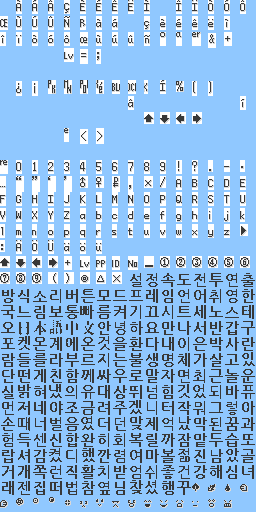
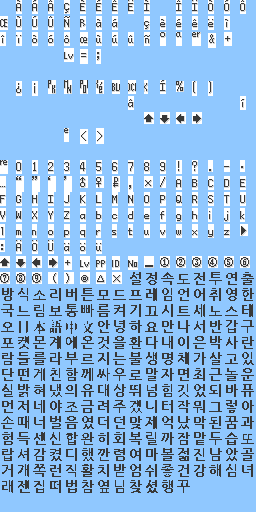
Fix Korean text rendering as blank
The glyphs were baked into one font sheet, but dialogue is drawn with a
different one. gen_korean.py wrote Hangul only into graphics/fonts/
latin_normal.png and patched only sFontNormalLatinGlyphWidths. The dialogue box
picks its font by who is speaking (new_menu_helpers.c: FONT_MALE for a male NPC,
FONT_FEMALE for a female one, FONT_NORMAL only for signs and neutral text) and
Oak's whole opening speech is hardcoded to FONT_MALE (oak_speech.c). Those two
fonts read latin_male.fwlatfont / latin_female.fwlatfont, where every Korean
slot was zero bytes.

A zero glyph is 2bpp value 0, which the printer paints as the background colour,
and the male/female width tables still returned the stock 6 for those indices --
so the cursor advanced and the text came out as correctly-spaced empty boxes.
That is why the options menu and the boot language screen looked right (both
FONT_NORMAL) while every NPC line and all of Oak's speech was blank.

The generator now bakes into latin_normal, latin_male and latin_female, and
patches all four affected width tables (latin_normal backs both FONT_NORMAL and
FONT_NORMAL_COPY_1, which have separate tables). FONT_SMALL is deliberately left
out: it is a half-width 8px font used only for English hint lines, and Hangul is
illegible at 8px.

Two further defects found and fixed while tracing this:

- Glyphs were being clipped. The engine draws only 14 rows (gGlyphInfo.height =
[…]

Changed region(s): [[0.0, 0.5312, 1.0, 1.0]]

diff --git a/src/text.c b/src/text.c
@@ -143,43 +143,38 @@ static const u16 sFontSmallJapaneseGlyphs[] = INCBIN_U16("graphics/fonts/japanes
 static const u16 sFontNormalCopy1LatinGlyphs[] = INCBIN_U16("graphics/fonts/latin_normal.fwlatfont");
 static const u8 sFontNormalCopy1LatinGlyphWidths[] =
 {
-     6,  6,  6,  6,  6,  6,  6,  6,  6,  6,  6,  6,  6,  6,
-     6,  6,  8,  6,  6,  6,  6,  6,  6,  6,  6,  6,  6,  6,
-     6,  6,  6,  6,  6,  6,  6,  6,  6,  8,  6,  6,  6,  6,
-     6,  6,  9,  8,  8,  6,  6,  6,  6,  6, 10,  8,  5,  6,
-     6,  6,  6,  6,  6,  6,  6,  6,  6,  6,  6,  6,  6,  6,
-     6,  6,  6,  6,  6,  6,  6,  6,  6,  6,  6,  6,  6,  8,
-     8,  8,  8,  8,  8,  4,  6,  8,  5,  5,  6,  6,  6,  6,
-     6,  6,  6,  6,  6,  6,  6,  6,  6,  6,  6,  6,  6,  6,
-     6,  6,  6,  6,  6,  6,  6,  6,  6, 12, 12, 12, 12,  6,
-     6,  6,  6,  6,  6,  6,  8,  8,  8,  6,  6,  6,  6,  6,
-     6,  6,  6,  6,  6,  6,  6,  6,  6,  6,  6,  6,  6,  6,
-     6,  6,  6,  6,  6,  6,  8,  6,  6,  6,  6,  6,  6,  6,
-     6,  6,  6,  6,  6,  5,  6,  5,  6,  6,  6,  3,  3,  6,
-     6,  8,  5,  9,  6,  6,  6,  6,  6,  6,  6,  6,  6,  6,
-     6,  6,  6,  6,  6,  6,  6,  6,  6,  6,  6,  6,  6,  6,
-     6,  6,  6,  6,  6,  6,  6,  6,  5,  6,  6,  4,  6,  5,
-     5,  6,  5,  6,  6,  6,  5,  5,  5,  6,  6,  6,  6,  6,
-     6,  8,  5,  6,  6,  6,  6,  6,  6,  6,  6,  6,  6,  6,
-     6,  6,  6,  6, 12, 12, 12, 12,  8, 10, 10, 10, 10, 10,
-    10, 10, 10, 10, 10, 10, 10, 10, 10, 10, 10, 10, 10, 10,
-     6,  6,  6,  6,  6,  6,  6,  6,  6,  6,  6,  6,  6,  6,
-     6,  6,  6,  6,  6,  6,  6,  6,  6,  6,  6,  6,  6,  6,
-     6,  6,  6,  6,  6,  6,  6,  6,  6,  6,  6,  6,  6,  6,
-     6,  6,  6,  6,  6,  6,  6,  6,  6,  6,  6,  6,  6,  6,
-     6,  6,  6,  6,  6,  6,  6,  6,  6,  6,  6,  6,  6,  6,
-     6,  6,  6,  6,  6,  6,  6,  6,  6,  6,  6,  6,  6,  6,
-     6,  6,  6,  6,  6,  6,  6,  6,  6,  6,  6,  6,  6,  6,
-     6,  6,  6,  6,  6,  6,  6,  6,  6,  6,  6,  6,  6,  6,
-     6,  6,  6,  6,  6,  6,  6,  6,  6,  6,  6,  6,  6,  6,
-     6,  6,  6,  6,  6,  6,  6,  6,  6,  6,  6,  6,  6,  6,
-     6,  6,  6,  6,  6,  6,  6,  6,  6,  6,  6,  6,  6,  6,
-     6,  6,  6,  6,  6,  6,  6,  6,  6,  6,  6,  6,  6,  6,
-     6,  6,  6,  6,  6,  6,  6,  6,  6,  6,  6,  6,  6,  6,
-     6,  6,  8,  8,  8,  8,  8,  8,  8,  8,  8,  8,  8,  8,
-     8,  8,  8,  8,  8,  8,  8,  8,  8,  8,  8,  8,  8,  8,
-     8,  8,  8,  8,  8,  8,  8,  8,  8,  8,  8,  8,  8,  8,
-     8,  8,  8,  8,  8,  8,  8,  6
+    6, 6, 6, 6, 6, 6, 6, 6, 6, 6, 6, 6, 6, 6, 6, 6,
+    8, 6, 6, 6, 6, 6, 6, 6, 6, 6, 6, 6, 6, 6, 6, 6,
+    6, 6, 6, 6, 6, 8, 6, 6, 6, 6, 6, 6, 9, 8, 8, 6,
+    6, 6, 6, 6, 10, 8, 5, 6, 6, 6, 6, 6, 6, 6, 6, 6,
+    6, 6, 6, 6, 6, 6, 6, 6, 6, 6, 6, 6, 6, 6, 6, 6,
+    6, 6, 6, 8, 8, 8, 8, 8, 8, 4, 6, 8, 5, 5, 6, 6,
+    6, 6, 6, 6, 6, 6, 6, 6, 6, 6, 6, 6, 6, 6, 6, 6,
+    6, 6, 6, 6, 6, 6, 6, 6, 6, 12, 12, 12, 12, 6, 6, 6,
+    6, 6, 6, 6, 8, 8, 8, 6, 6, 6, 6, 6, 6, 6, 6, 6,
+    6, 6, 6, 6, 6, 6, 6, 6, 6, 6, 6, 6, 6, 6, 6, 6,
+    8, 6, 6, 6, 6, 6, 6, 6, 6, 6, 6, 6, 6, 5, 6, 5,
+    6, 6, 6, 3, 3, 6, 6, 8, 5, 9, 6, 6, 6, 6, 6, 6,
+    6, 6, 6, 6, 6, 6, 6, 6, 6, 6, 6, 6, 6, 6, 6, 6,
+    6, 6, 6, 6, 6, 6, 6, 6, 6, 6, 5, 6, 6, 4, 6, 5,
+    5, 6, 5, 6, 6, 6, 5, 5, 5, 6, 6, 6, 6, 6, 6, 8,
+    5, 6, 6, 6, 6, 6, 6, 6, 6, 6, 6, 6, 6, 6, 6, 6,
+    12, 12, 12, 12, 8, 10, 10, 10, 10, 10, 10, 10, 10, 10, 10, 10,
+    10, 10, 10, 10, 10, 10, 10, 10, 16, 16, 16, 16, 16, 16, 16, 16,
+    16, 16, 16, 16, 16, 16, 16, 16, 16, 16, 16, 16, 16, 16, 16, 16,
+    16, 16, 16, 16, 16, 16, 16, 16, 16, 16, 16, 16, 16, 16, 16, 16,
+    16, 16, 16, 16, 16, 16, 16, 16, 16, 16, 16, 16, 16, 16, 16, 16,
+    16, 16, 16, 16, 16, 16, 16, 16, 16, 16, 16, 16, 16, 16, 16, 16,
+    16, 16, 16, 16, 16, 16, 16, 16, 16, 16, 16, 16, 16, 16, 16, 16,
+    16, 16, 16, 16, 16, 16, 16, 16, 16, 16, 16, 16, 16, 16, 16, 16,
+    16, 16, 16, 16, 16, 16, 16, 16, 16, 16, 16, 16, 16, 16, 16, 16,
+    16, 16, 16, 16, 16, 16, 16, 16, 16, 16, 16, 16, 16, 16, 16, 16,
+    16, 16, 16, 16, 16, 16, 16, 16, 16, 16, 16, 16, 16, 16, 16, 16,
+    16, 16, 16, 16, 16, 16, 16, 16, 16, 16, 16, 16, 16, 16, 16, 16,
+    16, 16, 16, 16, 16, 16, 16, 16, 16, 16, 16, 16, 16, 16, 16, 16,
+    16, 16, 16, 16, 16, 16, 16, 16, 16, 16, 16, 16, 16, 16, 16, 16,
+    16, 16, 16, 16, 16, 16, 16, 16, 16, 16, 16, 16, 8, 8, 8, 8,
+    8, 8, 8, 8, 8, 8, 8, 8, 8, 8, 8, 8, 8, 8, 8, 6,
 };
 static const u16 sFontTallJapaneseGlyphs[] = INCBIN_U16("graphics/fonts/japanese_tall.fwjpnfont");
 
@@ -247,43 +242,38 @@ static const u8 sFontNormalJapaneseGlyphWidths[] =
 static const u16 sFontMaleLatinGlyphs[] = INCBIN_U16("graphics/fonts/latin_male.fwlatfont");
 static const u8 sFontMaleLatinGlyphWidths[] =
 {
-     6,  6,  6,  6,  6,  6,  6,  6,  6,  6,  6,  6,  6,  6,
-     6,  6,  8,  6,  6,  6,  6,  6,  6,  6,  6,  6,  6,  6,
-     6,  6,  6,  6,  6,  6,  6,  6,  6,  8,  6,  6,  6,  6,
-     6,  6,  9,  8,  8,  6,  6,  6,  6,  6, 10,  8,  5,  6,
-     6,  6,  6,  6,  6,  6,  6,  6,  6,  6,  6,  6,  6,  6,
-     6,  6,  6,  6,  6,  6,  6,  6,  6,  6,  6,  6,  6,  8,
-     8,  8,  8,  8,  8,  4,  6,  8,  5,  5,  6,  6,  6,  6,
-     6,  6,  6,  6,  6,  6,  6,  6,  6,  6,  6,  6,  6,  6,
-     6,  6,  6,  6,  6,  6,  6,  6,  6, 12, 12, 12, 12,  6,
-     6,  6,  6,  6,  6,  6,  8,  8,  8,  6,  6,  6,  6,  6,
-     6,  6,  6,  6,  6,  6,  6,  6,  6,  6,  6,  6,  6,  6,
-     6,  6,  6,  6,  6,  6,  8,  6,  6,  6,  6,  6,  6,  6,
-     6,  6,  6,  6,  6,  5,  6,  5,  6,  6,  6,  3,  3,  6,
-     6,  8,  5,  9,  6,  6,  6,  6,  6,  6,  6,  6,  6,  6,
-     6,  6,  6,  6,  6,  6,  6,  6,  6,  6,  6,  6,  6,  6,
-     6,  6,  6,  6,  6,  6,  6,  6,  5,  6,  6,  4,  6,  5,
-     5,  6,  5,  6,  6,  6,  5,  5,  5,  6,  6,  6,  6,  6,
-     6,  8,  5,  6,  6,  6,  6,  6,  6,  6,  6,  6,  6,  6,
-     6,  6,  6,  6, 12, 12, 12, 12,  8, 10, 10, 10, 10, 10,
-    10, 10, 10, 10, 10, 10, 10, 10, 10, 10, 10, 10, 10, 10,
-     6,  6,  6,  6,  6,  6,  6,  6,  6,  6,  6,  6,  6,  6,
-     6,  6,  6,  6,  6,  6,  6,  6,  6,  6,  6,  6,  6,  6,
-     6,  6,  6,  6,  6,  6,  6,  6,  6,  6,  6,  6,  6,  6,
-     6,  6,  6,  6,  6,  6,  6,  6,  6,  6,  6,  6,  6,  6,
-     6,  6,  6,  6,  6,  6,  6,  6,  6,  6,  6,  6,  6,  6,
-     6,  6,  6,  6,  6,  6,  6,  6,  6,  6,  6,  6,  6,  6,
-     6,  6,  6,  6,  6,  6,  6,  6,  6,  6,  6,  6,  6,  6,
-     6,  6,  6,  6,  6,  6,  6,  6,  6,  6,  6,  6,  6,  6,
-     6,  6,  6,  6,  6,  6,  6,  6,  6,  6,  6,  6,  6,  6,
-     6,  6,  6,  6,  6,  6,  6,  6,  6,  6,  6,  6,  6,  6,
-     6,  6,  6,  6,  6,  6,  6,  6,  6,  6,  6,  6,  6,  6,
-     6,  6,  6,  6,  6,  6,  6,  6,  6,  6,  6,  6,  6,  6,
-     6,  6,  6,  6,  6,  6,  6,  6,  6,  6,  6,  6,  6,  6,
-     6,  6,  8,  8,  8,  8,  8,  8,  8,  8,  8,  8,  8,  8,
-     8,  8,  8,  8,  8,  8,  8,  8,  8,  8,  8,  8,  8,  8,
-     8,  8,  8,  8,  8,  8,  8,  8,  8,  8,  8,  8,  8,  8,
-     8,  8,  8,  8,  8,  8,  8,  6
+    6, 6, 6, 6, 6, 6, 6, 6, 6, 6, 6, 6, 6, 6, 6, 6,
+    8, 6, 6, 6, 6, 6, 6, 6, 6, 6, 6, 6, 6, 6, 6, 6,
+    6, 6, 6, 6, 6, 8, 6, 6, 6, 6, 6, 6, 9, 8, 8, 6,
+    6, 6, 6, 6, 10, 8, 5, 6, 6, 6, 6, 6, 6, 6, 6, 6,
+    6, 6, 6, 6, 6, 6, 6, 6, 6, 6, 6, 6, 6, 6, 6, 6,
+    6, 6, 6, 8, 8, 8, 8, 8, 8, 4, 6, 8, 5, 5, 6, 6,
+    6, 6, 6, 6, 6, 6, 6, 6, 6, 6, 6, 6, 6, 6, 6, 6,
+    6, 6, 6, 6, 6, 6, 6, 6, 6, 12, 12, 12, 12, 6, 6, 6,
+    6, 6, 6, 6, 8, 8, 8, 6, 6, 6, 6, 6, 6, 6, 6, 6,
+    6, 6, 6, 6, 6, 6, 6, 6, 6, 6, 6, 6, 6, 6, 6, 6,
+    8, 6, 6, 6, 6, 6, 6, 6, 6, 6, 6, 6, 6, 5, 6, 5,
+    6, 6, 6, 3, 3, 6, 6, 8, 5, 9, 6, 6, 6, 6, 6, 6,
+    6, 6, 6, 6, 6, 6, 6, 6, 6, 6, 6, 6, 6, 6, 6, 6,
+    6, 6, 6, 6, 6, 6, 6, 6, 6, 6, 5, 6, 6, 4, 6, 5,
+    5, 6, 5, 6, 6, 6, 5, 5, 5, 6, 6, 6, 6, 6, 6, 8,
+    5, 6, 6, 6, 6, 6, 6, 6, 6, 6, 6, 6, 6, 6, 6, 6,
+    12, 12, 12, 12, 8, 10, 10, 10, 10, 10, 10, 10, 10, 10, 10, 10,
+    10, 10, 10, 10, 10, 10, 10, 10, 16, 16, 16, 16, 16, 16, 16, 16,
+    16, 16, 16, 16, 16, 16, 16, 16, 16, 16, 16, 16, 16, 16, 16, 16,
+    16, 16, 16, 16, 16, 16, 16, 16, 16, 16, 16, 16, 16, 16, 16, 16,
+    16, 16, 16, 16, 16, 16, 16, 16, 16, 16, 16, 16, 16, 16, 16, 16,
+    16, 16, 16, 16, 16, 16, 16, 16, 16, 16, 16, 16, 16, 16, 16, 16,
+    16, 16, 16, 16, 16, 16, 16, 16, 16, 16, 16, 16, 16, 16, 16, 16,
+    16, 16, 16, 16, 16, 16, 16, 16, 16, 16, 16, 16, 16, 16, 16, 16,
+    16, 16, 16, 16, 16, 16, 16, 16, 16, 16, 16, 16, 16, 16, 16, 16,
+    16, 16, 16, 16, 16, 16, 16, 16, 16, 16, 16, 16, 16, 16, 16, 16,
+    16, 16, 16, 16, 16, 16, 16, 16, 16, 16, 16, 16, 16, 16, 16, 16,
+    16, 16, 16, 16, 16, 16, 16, 16, 16, 16, 16, 16, 16, 16, 16, 16,
+    16, 16, 16, 16, 16, 16, 16, 16, 16, 16, 16, 16, 16, 16, 16, 16,
+    16, 16, 16, 16, 16, 16, 16, 16, 16, 16, 16, 16, 16, 16, 16, 16,
+    16, 16, 16, 16, 16, 16, 16, 16, 16, 16, 16, 16, 8, 8, 8, 8,
+    8, 8, 8, 8, 8, 8, 8, 8, 8, 8, 8, 8, 8, 8, 8, 6,
 };
 static const u16 sFontMaleJapaneseGlyphs[] = INCBIN_U16("graphics/fonts/japanese_male.fwjpnfont");
 static const u8 sFontMaleJapaneseGlyphWidths[] = 
@@ -313,43 +303,38 @@ static const u8 sFontMaleJapaneseGlyphWidths[] =
 static const u16 sFontFemaleLatinGlyphs[] = INCBIN_U16("graphics/fonts/latin_female.fwlatfont");
 static const u8 sFontFemaleLatinGlyphWidths[] =
 {
-     6,  6,  6,  6,  6,  6,  6,  6,  6,  6,  6,  6,  6,  6,
-     6,  6,  8,  6,  6,  6,  6,  6,  6,  6,  6,  6,  6,  6,
-     6,  6,  6,  6,  6,  6,  6,  6,  6,  8,  6,  6,  6,  6,
-     6,  6,  9,  8,  8,  6,  6,  6,  6,  6, 10,  8,  5,  6,
-     6,  6,  6,  6,  6,  6,  6,  6,  6,  6,  6,  6,  6,  6,
-     6,  6,  6,  6,  6,  6,  6,  6,  6,  6,  6,  6,  6,  8,
-     8,  8,  8,  8,  8,  4,  6,  8,  5,  5,  6,  6,  6,  6,
-     6,  6,  6,  6,  6,  6,  6,  6,  6,  6,  6,  6,  6,  6,
-     6,  6,  6,  6,  6,  6,  6,  6,  6, 12, 12, 12, 12,  6,
-     6,  6,  6,  6,  6,  6,  8,  8,  8,  6,  6,  6,  6,  6,
-     6,  6,  6,  6,  6,  6,  6,  6,  6,  6,  6,  6,  6,  6,
-     6,  6,  6,  6,  6,  6,  8,  6,  6,  6,  6,  6,  6,  6,
-     6,  6,  6,  6,  6,  5,  6,  5,  6,  6,  6,  3,  3,  6,
-     6,  8,  5,  9,  6,  6,  6,  6,  6,  6,  6,  6,  6,  6,
-     6,  6,  6,  6,  6,  6,  6,  6,  6,  6,  6,  6,  6,  6,
-     6,  6,  6,  6,  6,  6,  6,  6,  5,  6,  6,  4,  6,  5,
-     5,  6,  5,  6,  6,  6,  5,  5,  5,  6,  6,  6,  6,  6,
-     6,  8,  5,  6,  6,  6,  6,  6,  6,  6,  6,  6,  6,  6,
-     6,  6,  6,  6, 12, 12, 12, 12,  8, 10, 10, 10, 10, 10,
-    10, 10, 10, 10, 10, 10, 10, 10, 10, 10, 10, 10, 10, 10,
-     6,  6,  6,  6,  6,  6,  6,  6,  6,  6,  6,  6,  6,  6,
-     6,  6,  6,  6,  6,  6,  6,  6,  6,  6,  6,  6,  6,  6,
-     6,  6,  6,  6,  6,  6,  6,  6,  6,  6,  6,  6,  6,  6,
-     6,  6,  6,  6,  6,  6,  6,  6,  6,  6,  6,  6,  6,  6,
-     6,  6,  6,  6,  6,  6,  6,  6,  6,  6,  6,  6,  6,  6,
-     6,  6,  6,  6,  6,  6,  6,  6,  6,  6,  6,  6,  6,  6,
-     6,  6,  6,  6,  6,  6,  6,  6,  6,  6,  6,  6,  6,  6,
-     6,  6,  6,  6,  6,  6,  6,  6,  6,  6,  6,  6,  6,  6,
-     6,  6,  6,  6,  6,  6,  6,  6,  6,  6,  6,  6,  6,  6,
-     6,  6,  6,  6,  6,  6,  6,  6,  6,  6,  6,  6,  6,  6,
-     6,  6,  6,  6,  6,  6,  6,  6,  6,  6,  6,  6,  6,  6,
-     6,  6,  6,  6,  6,  6,  6,  6,  6,  6,  6,  6,  6,  6,
-     6,  6,  6,  6,  6,  6,  6,  6,  6,  6,  6,  6,  6,  6,
-     6,  6,  8,  8,  8,  8,  8,  8,  8,  8,  8,  8,  8,  8,
-     8,  8,  8,  8,  8,  8,  8,  8,  8,  8,  8,  8,  8,  8,
-     8,  8,  8,  8,  8,  8,  8,  8,  8,  8,  8,  8,  8,  8,
-     8,  8,  8,  8,  8,  8,  8,  6
+    6, 6, 6, 6, 6, 6, 6, 6, 6, 6, 6, 6, 6, 6, 6, 6,
+    8, 6, 6, 6, 6, 6, 6, 6, 6, 6, 6, 6, 6, 6, 6, 6,
+    6, 6, 6, 6, 6, 8, 6, 6, 6, 6, 6, 6, 9, 8, 8, 6,
+    6, 6, 6, 6, 10, 8, 5, 6, 6, 6, 6, 6, 6, 6, 6, 6,
+    6, 6, 6, 6, 6, 6, 6, 6, 6, 6, 6, 6, 6, 6, 6, 6,
+    6, 6, 6, 8, 8, 8, 8, 8, 8, 4, 6, 8, 5, 5, 6, 6,
+    6, 6, 6, 6, 6, 6, 6, 6, 6, 6, 6, 6, 6, 6, 6, 6,
+    6, 6, 6, 6, 6, 6, 6, 6, 6, 12, 12, 12, 12, 6, 6, 6,
+    6, 6, 6, 6, 8, 8, 8, 6, 6, 6, 6, 6, 6, 6, 6, 6,
+    6, 6, 6, 6, 6, 6, 6, 6, 6, 6, 6, 6, 6, 6, 6, 6,
+    8, 6, 6, 6, 6, 6, 6, 6, 6, 6, 6, 6, 6, 5, 6, 5,
+    6, 6, 6, 3, 3, 6, 6, 8, 5, 9, 6, 6, 6, 6, 6, 6,
+    6, 6, 6, 6, 6, 6, 6, 6, 6, 6, 6, 6, 6, 6, 6, 6,
+    6, 6, 6, 6, 6, 6, 6, 6, 6, 6, 5, 6, 6, 4, 6, 5,
+    5, 6, 5, 6, 6, 6, 5, 5, 5, 6, 6, 6, 6, 6, 6, 8,
+    5, 6, 6, 6, 6, 6, 6, 6, 6, 6, 6, 6, 6, 6, 6, 6,
+    12, 12, 12, 12, 8, 10, 10, 10, 10, 10, 10, 10, 10, 10, 10, 10,
+    10, 10, 10, 10, 10, 10, 10, 10, 16, 16, 16, 16, 16, 16, 16, 16,
+    16, 16, 16, 16, 16, 16, 16, 16, 16, 16, 16, 16, 16, 16, 16, 16,
+    16, 16, 16, 16, 16, 16, 16, 16, 16, 16, 16, 16, 16, 16, 16, 16,
+    16, 16, 16, 16, 16, 16, 16, 16, 16, 16, 16, 16, 16, 16, 16, 16,
+    16, 16, 16, 16, 16, 16, 16, 16, 16, 16, 16, 16, 16, 16, 16, 16,
+    16, 16, 16, 16, 16, 16, 16, 16, 16, 16, 16, 16, 16, 16, 16, 16,
+    16, 16, 16, 16, 16, 16, 16, 16, 16, 16, 16, 16, 16, 16, 16, 16,
+    16, 16, 16, 16, 16, 16, 16, 16, 16, 16, 16, 16, 16, 16, 16, 16,
+    16, 16, 16, 16, 16, 16, 16, 16, 16, 16, 16, 16, 16, 16, 16, 16,
+    16, 16, 16, 16, 16, 16, 16, 16, 16, 16, 16, 16, 16, 16, 16, 16,
+    16, 16, 16, 16, 16, 16, 16, 16, 16, 16, 16, 16, 16, 16, 16, 16,
+    16, 16, 16, 16, 16, 16, 16, 16, 16, 16, 16, 16, 16, 16, 16, 16,
+    16, 16, 16, 16, 16, 16, 16, 16, 16, 16, 16, 16, 16, 16, 16, 16,
+    16, 16, 16, 16, 16, 16, 16, 16, 16, 16, 16, 16, 8, 8, 8, 8,
+    8, 8, 8, 8, 8, 8, 8, 8, 8, 8, 8, 8, 8, 8, 8, 6,
 };
 static const u16 sFontFemaleJapaneseGlyphs[] = INCBIN_U16("graphics/fonts/japanese_female.fwjpnfont");
 static const u8 sFontFemaleJapaneseGlyphWidths[] =

diff --git a/tools/korean_glyphs/gen_korean.py b/tools/korean_glyphs/gen_korean.py
@@ -7,7 +7,28 @@ import re, os
 from PIL import Image, ImageFont, ImageDraw
 
 ROOT = "/home/user/Pokemon-RD"
-PNG = os.path.join(ROOT, "graphics/fonts/latin_normal.png")
+
+# Every font that Korean text can be printed with needs its OWN copy of the
+# glyphs, because each font id reads a different .fwlatfont and a different
+# width table. The dialogue box picks the font by who is speaking
+# (new_menu_helpers.c DrawDialogueFrame path: FONT_MALE / FONT_FEMALE /
+# FONT_NORMAL) and Oak's speech is always FONT_MALE (oak_speech.c), so baking
+# into latin_normal alone left every male/female line as blank spaces of the
+# right width. FONT_NORMAL and FONT_NORMAL_COPY_1 share latin_normal.fwlatfont
+# but have separate width tables, so that sheet patches two tables.
+FONT_TARGETS = [
+    ("graphics/fonts/latin_normal.png",
+     ["sFontNormalLatinGlyphWidths", "sFontNormalCopy1LatinGlyphWidths"]),
+    ("graphics/fonts/latin_male.png",
+     ["sFontMaleLatinGlyphWidths"]),
+    ("graphics/fonts/latin_female.png",
+     ["sFontFemaleLatinGlyphWidths"]),
+]
+# FONT_SMALL (latin_small.hwlatfont) is deliberately not included: it is a
+# half-width 8px font used only for English hint lines ("PICK SWITCH CANCEL",
+# the language-select footer), and Hangul is illegible at 8px.
+
+PNG = os.path.join(ROOT, FONT_TARGETS[0][0])
 TEXTC = os.path.join(ROOT, "src/text.c")
 HDR = os.path.join(ROOT, "include/korean_ui_strings.h")
 FONT = "/usr/share/fonts/truetype/nanum/NanumGothicBold.ttf"
@@ -188,63 +209,91 @@ assert len(order) <= (0x200 - FIRST_GLYPH), "too many syllables for free slots"
 glyph_of = {ch: FIRST_GLYPH + i for i, ch in enumerate(order)}
 print("unique glyphs:", len(order), "-> glyphs 0x%X..0x%X" % (FIRST_GLYPH, FIRST_GLYPH+len(order)-1))
 
-# --- render into the PNG ---------------------------------------------------
-im = Image.open(PNG)
-assert im.mode == "P" and im.size == (256, 512), (im.mode, im.size)
-px = im.load()
+# --- render into every font sheet -------------------------------------------
+# The cell in the sheet is 16px tall, but the engine only ever DRAWS 14 rows:
+# DecompressGlyph_Normal/_Male/_Female set gGlyphInfo.height = 14 and
+# CopyGlyphToWindow clips to it (src/text.c, src/text_printer.c). Anything the
+# generator puts on rows 14-15 is silently thrown away, which for Hangul means
+# losing the bottom of the final consonant (받침) and turning 각 into 가. So the
+# glyph is sized and centred to fit the drawable 14 rows, not the full cell.
+CELL_H = 16
+DRAW_H = 14
+
 _font_cache = {}
 def _font_for(ch):
     path = font_path_of[ch]
     if path not in _font_cache:
-        # CJK kanji/hanzi need a slightly smaller size to fit a 16x16 cell.
-        size = 14 if path == FONT_CJK else 15
+        # Sized to fit DRAW_H rows; CJK hanzi are denser and need one less.
+        size = 13 if path == FONT_CJK else 14
         _font_cache[path] = ImageFont.truetype(path, size)
     return _font_cache[path]
 
-def render_cell(ch, gid):
+def render_cell(px, ch, gid):
     font = _font_for(ch)
     col, row = gid % 16, gid // 16
-    ox, oy = col * 16, row * 16
-    # clear the 16x16 cell
-    for y in range(16):
+    ox, oy = col * 16, row * CELL_H
+    # clear the whole cell
+    for y in range(CELL_H):
         for x in range(16):
             px[ox + x, oy + y] = 0
     # rasterize the syllable to a small grayscale then threshold to index 1
-    tmp = Image.new("L", (16, 16), 0)
+    tmp = Image.new("L", (16, CELL_H), 0)
     d = ImageDraw.Draw(tmp)
     bbox = d.textbbox((0, 0), ch, font=font)
     w = bbox[2] - bbox[0]
     h = bbox[3] - bbox[1]
     dx = (16 - w) // 2 - bbox[0]
-    dy = (16 - h) // 2 - bbox[1]
+    # Centre within the drawable rows only, and never let ink start so low that
+    # the tail falls past row DRAW_H-1.
+    dy = (DRAW_H - h) // 2 - bbox[1]
+    if dy + bbox[1] + h > DRAW_H:
+        dy = DRAW_H - h - bbox[1]
+    if dy + bbox[1] < 0:
+        dy = -bbox[1]
     d.text((dx, dy), ch, fill=255, font=font)
     tp = tmp.load()
-    for y in range(16):
+    for y in range(DRAW_H):          # rows 14-15 would be clipped away anyway
         for x in range(16):
             if tp[x, y] >= 110:      # ink threshold
                 px[ox + x, oy + y] = 1
 
-for ch, gid in glyph_of.items():
-    render_cell(ch, gid)
-im.save(PNG)
-print("wrote", PNG)
+for rel, _tables in FONT_TARGETS:
+    path = os.path.join(ROOT, rel)
+    sheet = Image.open(path)
+    assert sheet.mode == "P" and sheet.size == (256, 512), (rel, sheet.mode, sheet.size)
+    spx = sheet.load()
+    # Wipe every slot we own first. An earlier run may have used more glyphs
+    # than this one, and leftover ink in a now-unreferenced slot would sit in
+    # the sheet forever.
+    for gid in range(FIRST_GLYPH, 0x200):
+        ox, oy = (gid % 16) * 16, (gid // 16) * CELL_H
+        for y in range(CELL_H):
+            for x in range(16):
+                spx[ox + x, oy + y] = 0
+    for ch, gid in glyph_of.items():
+        render_cell(spx, ch, gid)
+    sheet.save(path)
+    print("wrote", path)
 
-# --- update the width table -------------------------------------------------
+# --- update the width tables ------------------------------------------------
 txt = open(TEXTC).read()
-m = re.search(r'(static const u8 sFontNormalLatinGlyphWidths\[\]\s*=\s*\{)(.*?)(\};)', txt, re.S)
-nums = re.findall(r'-?\d+', m.group(2))
-assert len(nums) == 512, len(nums)
-nums = [int(n) for n in nums]
-for gid in glyph_of.values():
-    nums[gid] = GLYPH_W
-# re-emit 16 per line
-lines = []
-for i in range(0, 512, 16):
-    lines.append("    " + ", ".join(str(n) for n in nums[i:i+16]) + ",")
-newbody = "\n" + "\n".join(lines) + "\n"
-txt = txt[:m.start()] + m.group(1) + newbody + m.group(3) + txt[m.end():]
+for _rel, tables in FONT_TARGETS:
+    for table in tables:
+        m = re.search(r'(static const u8 ' + table + r'\[\]\s*=\s*\{)(.*?)(\};)', txt, re.S)
+        assert m, "width table not found: " + table
+        nums = re.findall(r'-?\d+', m.group(2))
+        assert len(nums) == 512, (table, len(nums))
+        nums = [int(n) for n in nums]
+        for gid in glyph_of.values():
+            nums[gid] = GLYPH_W
+        # re-emit 16 per line
+        lines = []
+        for i in range(0, 512, 16):
+            lines.append("    " + ", ".join(str(n) for n in nums[i:i + 16]) + ",")
+        newbody = "\n" + "\n".join(lines) + "\n"
+        txt = txt[:m.start()] + m.group(1) + newbody + m.group(3) + txt[m.end():]
+        print("patched width table", table)
 open(TEXTC, "w").write(txt)
-print("patched width table in", TEXTC)
 
 # --- emit the C header ------------------------------------------------------
 def to_bytes(s):
